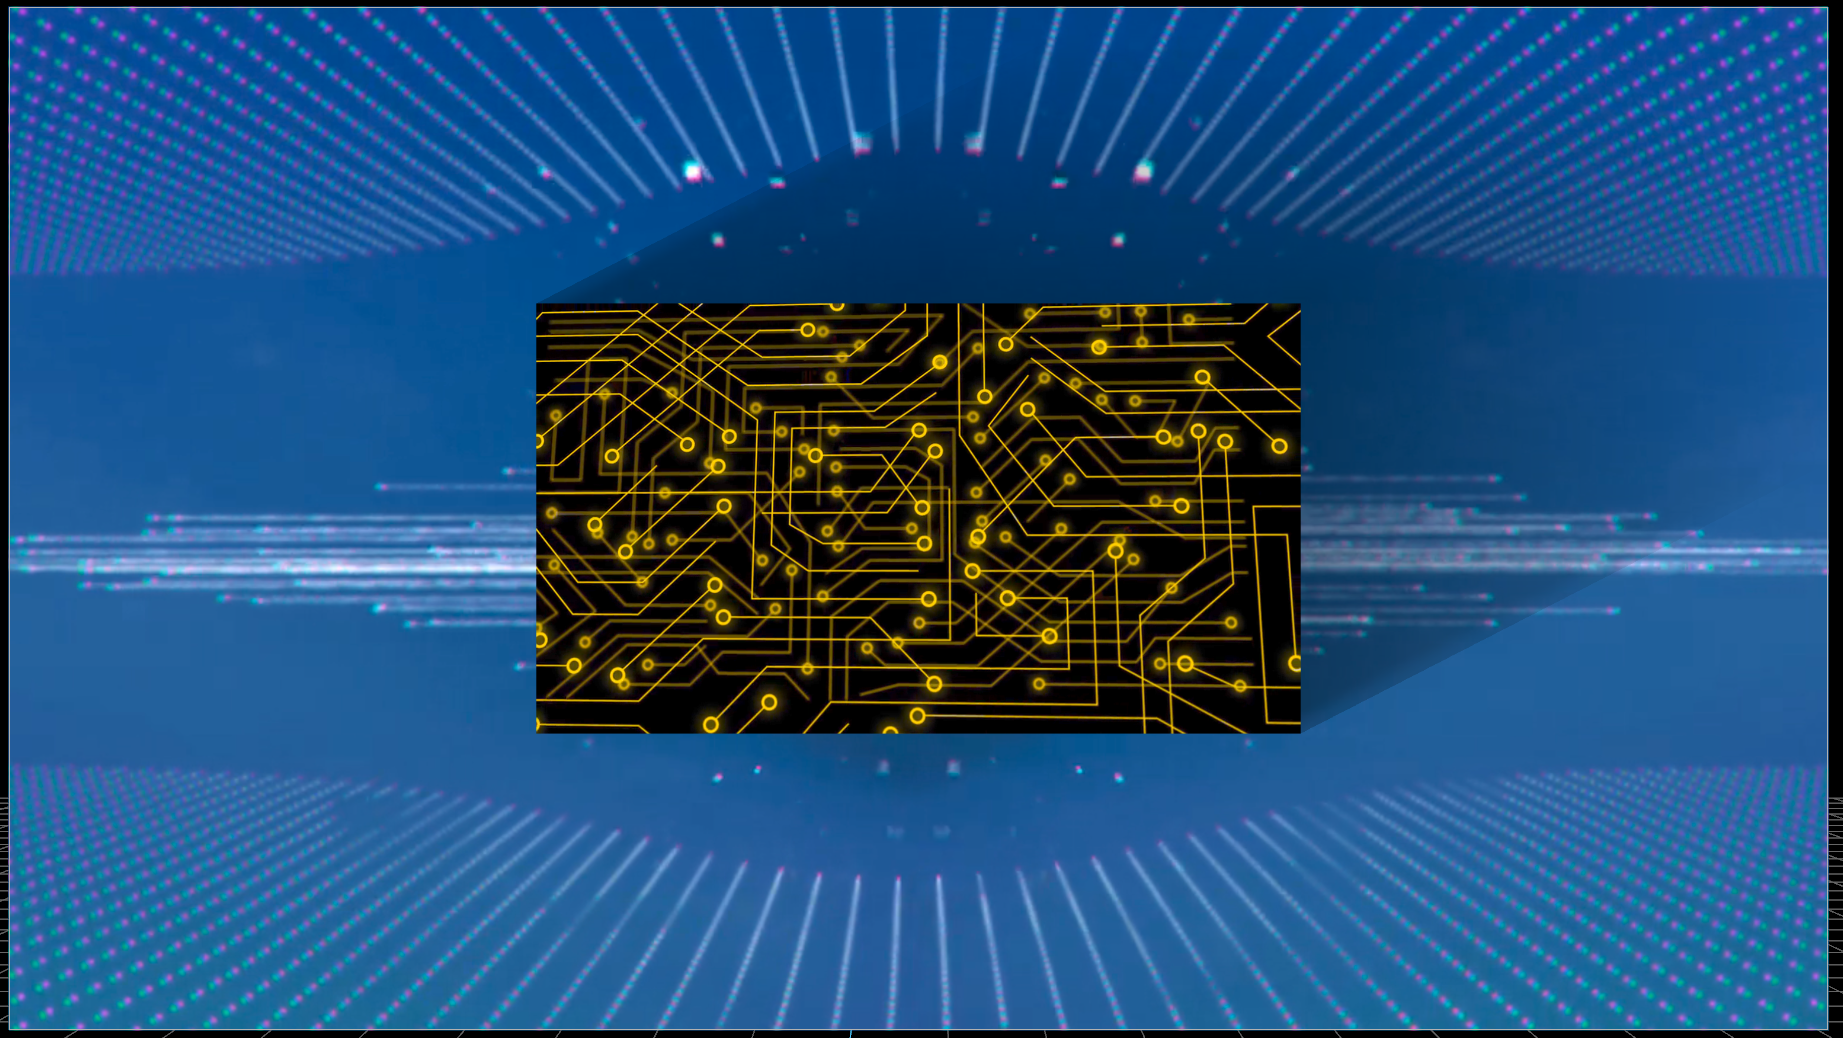
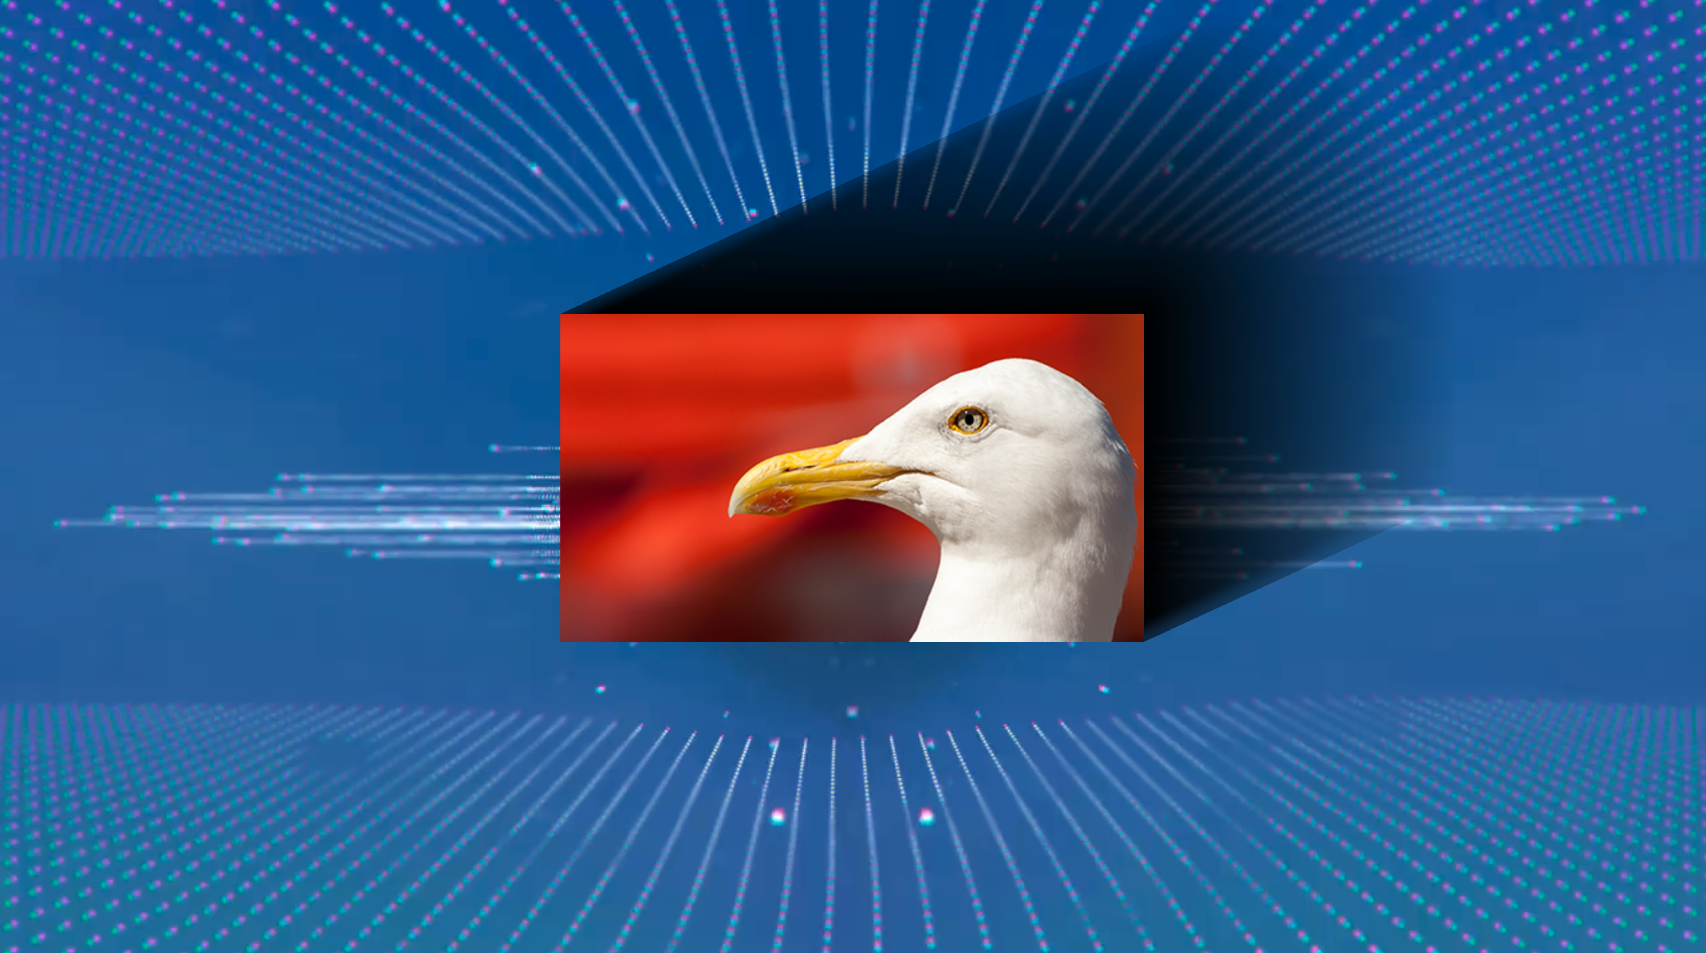
image update

diff --git a/Pixera/Shaders/v1.9.149/_effect_overview.md b/Pixera/Shaders/v1.9.149/_effect_overview.md
@@ -259,7 +259,7 @@
 `Bottom`
 `Angle[deg]`
 ## [DirectionalBlur](DirectionalBlur.glsl)
-<img src="_noeffect.png" alt="Placeholder Image" width="500"/>
+<img src="DirectionalBlur.png" alt="DirectionalBlur" width="500"/>
 
 - Blurs content in a specified direction
 
